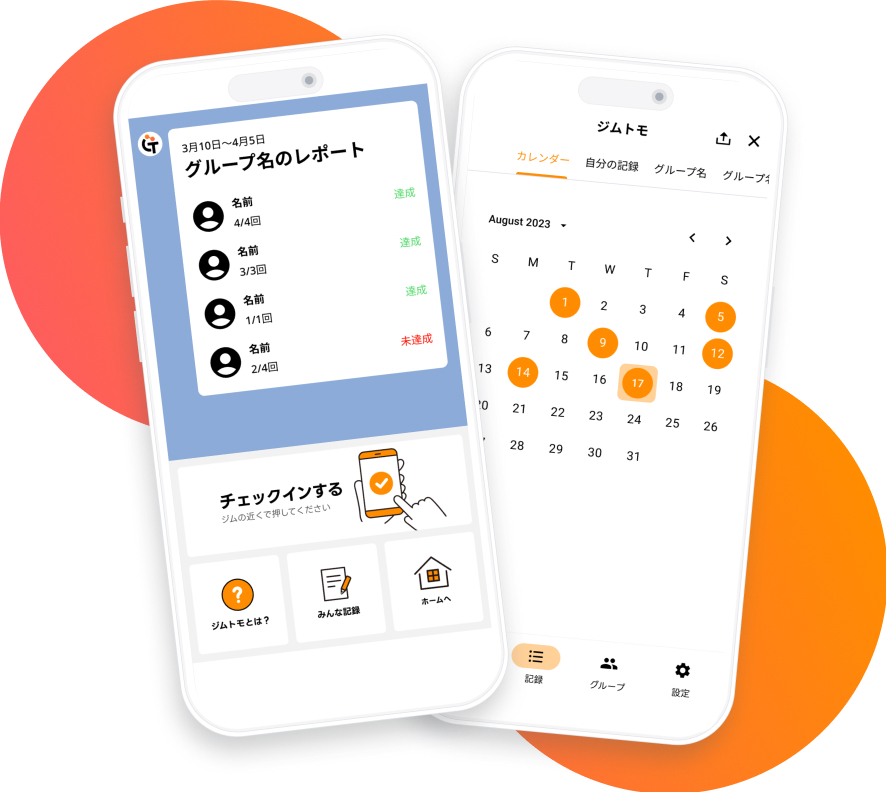
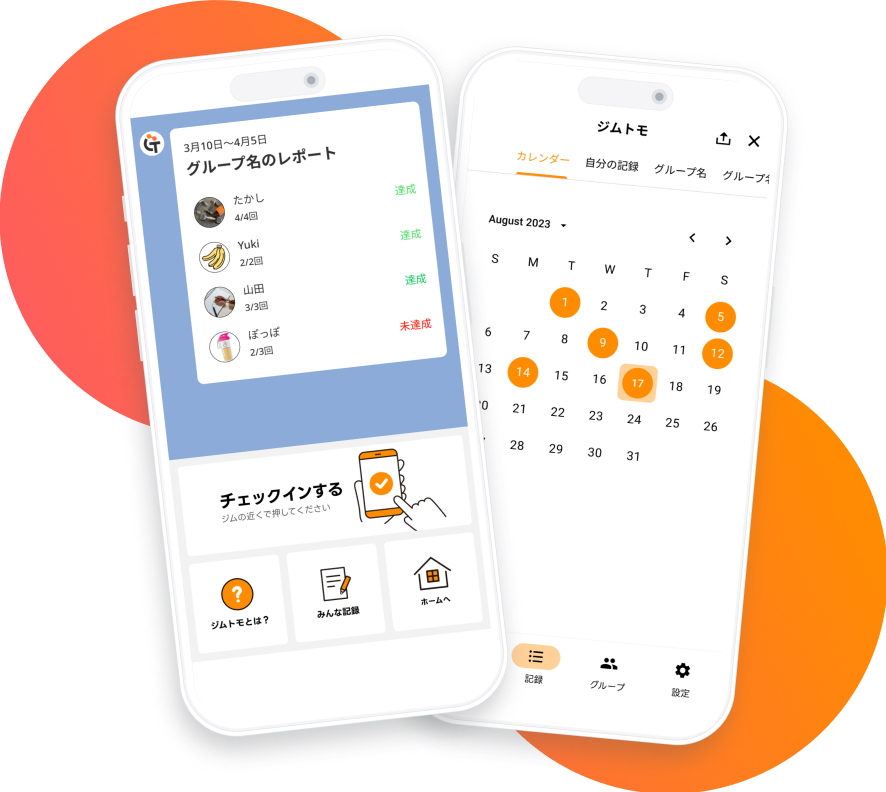
fix:文言修正＆画像差し替え

diff --git a/src/app/layout.tsx b/src/app/layout.tsx
@@ -1,68 +1,68 @@
-import type { Metadata } from "next";
+import type {Metadata} from "next";
 import localFont from "next/font/local";
 import "./globals.css";
-import { GoogleAnalytics } from '@next/third-parties/google';
+import {GoogleAnalytics} from '@next/third-parties/google';
 
 
-const url="https://www.gymtomo.com"
-const title="ジムトモ | フィットネスLINEアプリ"
-const description="ジムトモは仲間と目標を共有し、継続をサポートするLINEアプリです。公式LINEを友達追加するだけで簡単に始められ、インストール不要で手軽に利用できます。"
-export const metadata:Metadata = {
-  title: title,
-  description:description,
-  openGraph: {
+const url = "https://www.gymtomo.com"
+const title = "ジムトモ | 筋トレ記録アプリ"
+const description = "ジムトモはLINEで友達と記録をシェアして、ジム通いをもっと手軽に続けられるアプリです。記録はワンクリックで残せます。お互いの進捗をチェックして、やる気をキープ！ "
+export const metadata: Metadata = {
     title: title,
     description: description,
-    url: url,
-    type: 'website',
-    images: [
-      {
-        url: '/images/ogp.jpg',
-        width: 1200,
-        height: 630,
-        alt: title+'のバナー画像',
-      },
-    ],
-  },
-  twitter: {
-    card: 'summary_large_image',
-    title: title,
-    description: description,
-    images:['/images/ogp.jpg']
-  },
-  robots: 'index, follow',
-  keywords: ['ジムトモ', "ジム友",'筋トレアプリ', 'LINEアプリ', 'ジム', 'トレーニング', '健康'],
-  alternates:{
-    canonical:url
-  }
+    openGraph: {
+        title: title,
+        description: description,
+        url: url,
+        type: 'website',
+        images: [
+            {
+                url: '/images/ogp.jpg',
+                width: 1200,
+                height: 630,
+                alt: title + 'のバナー画像',
+            },
+        ],
+    },
+    twitter: {
+        card: 'summary_large_image',
+        title: title,
+        description: description,
+        images: ['/images/ogp.jpg']
+    },
+    robots: 'index, follow',
+    keywords: ['ジムトモ', "ジム友", 'トレーニング記録','筋トレ記録アプリ', 'LINEアプリ', 'ジム', 'トレーニング', '健康'],
+    alternates: {
+        canonical: url
+    }
 };
 
 const geistSans = localFont({
-  src: "./fonts/GeistVF.woff",
-  variable: "--font-geist-sans",
-  weight: "100 900",
+    src: "./fonts/GeistVF.woff",
+    variable: "--font-geist-sans",
+    weight: "100 900",
 });
 const geistMono = localFont({
-  src: "./fonts/GeistMonoVF.woff",
-  variable: "--font-geist-mono",
-  weight: "100 900",
+    src: "./fonts/GeistMonoVF.woff",
+    variable: "--font-geist-mono",
+    weight: "100 900",
 });
 
 const GA_ID = process.env.NEXT_PUBLIC_GA_ID || '';
 
 export default function RootLayout({
-  children,
-}: Readonly<{
-  children: React.ReactNode;
+                                       children,
+                                   }: Readonly<{
+    children: React.ReactNode;
 }>) {
-  return (
-    <html lang="ja">
-      <body
-        className={`${geistSans.variable} ${geistMono.variable} antialiased`}
-      >
+    return (
+        <html lang="ja">
+        <body
+            className={`${geistSans.variable} ${geistMono.variable} antialiased`}
+        >
         {children}
-        {!!GA_ID && <GoogleAnalytics gaId={GA_ID} />}
-      </body>
-    </html>
-  );
+        {!!GA_ID && <GoogleAnalytics gaId={GA_ID}/>}
+        </body>
+        </html>
+    );
 }

diff --git a/src/app/page.tsx b/src/app/page.tsx
@@ -78,7 +78,7 @@ export default function HomePage() {
                    仲間とジム通いをシェア
                 </h1>
                 <p className="mt-4 mx-10">
-            公式ラインからワンクリックで記録
+            公式LINEからワンクリックで記録
                 </p>
                 <div className="relative w-full aspect-[886/792] mt-9">
                     <Image src="/images/lp/home.jpg" alt="ジムトモのスクリーンショット" fill className="object-cover"/>
@@ -108,12 +108,12 @@ export default function HomePage() {
                             <>
                                 <div className="flex items-center">
                                     <img src="/images/lp/dumbbell.svg" alt="ダンベル" className="w-9 h-9"/>
-                                    <span>ジム活動を</span>
+                                    <span>ジム通いを</span>
                                     <span>LINEで共有</span>
                                 </div>
                             </>
                         }
-                        description="毎週、あなたと仲間のジム活動状況がLINEメッセージで届きます。"
+                        description="毎週、あなたと仲間のジム通い記録がLINEメッセージで届きます。"
                     />
                     <FeatureItem
                         imageSrc="/images/lp/checkin.jpg"
